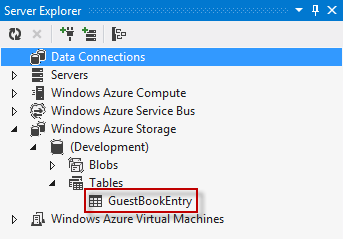
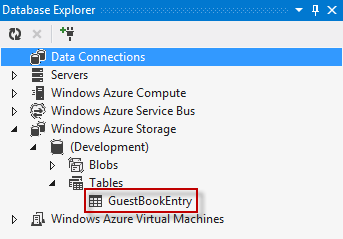
added instruction to open Database explorer or Server explorer depending on the edition of VS used

Changed region(s): [[0.0, 0.0, 0.2915, 0.0879], [0.3207, 0.1172, 0.379, 0.1757], [0.2332, 0.1172, 0.2915, 0.1757]]

diff --git a/HOL.md b/HOL.md
@@ -769,7 +769,9 @@ Among the features available in the Windows Azure Tools for Microsoft Visual Stu
 
 	>**Note:** If you are using Visual Studio 2010, you can use the Storage Explorer to view storage resources directly from Visual Studio. This functionality is not available in Visual Studio 2008.
 
-1. To open the Storage Explorer in Visual Studio 2012, open the **View** menu, select **Server Explorer**, and then expand the **Windows Azure Storage node**. The **Windows Azure Storage** node lists the storage accounts that you have currently registered and, by default, includes an entry for the storage emulator account labeled as **(Development)**.
+1. To open the Storage Explorer in Visual Studio 2012, open the **View** menu, select **Database Explorer**, and then expand the **Windows Azure Storage node**. The **Windows Azure Storage** node lists the storage accounts that you have currently registered and, by default, includes an entry for the storage emulator account labeled as **(Development)**.
+
+	> **Note:** If you are using **Microsoft Visual Studio 2012 Professional** edition or higher, to access the Storage Explorer open the **View** menu and select **Server Explorer**. 
 
 1. Expand the **(Development)** node and then the **Tables** node inside it. Notice that it contains a table named _GuestBookEntry_ created by the application that should contain details for each entry.
 
@@ -1069,7 +1071,7 @@ You now launch the updated application in the Windows Azure compute emulator to 
 
 	_Home page showing the thumbnail generated by the worker role_
 
-1. In **Server Explorer**, expand the **Blobs** node in the **Windows Azure Storage** node, and then double-click the _guestbookpics_ container. Notice that it now contains an additional blob for the generated thumbnail image.
+1. In **Database Explorer**, expand the **Blobs** node in the **Windows Azure Storage** node, and then double-click the _guestbookpics_ container. Notice that it now contains an additional blob for the generated thumbnail image.
 
 	![Blob container showing the blob for the generated thumbnail](Images/thumbnail-blob.png?raw=true "Blob container showing the blob for the generated thumbnail")
 
